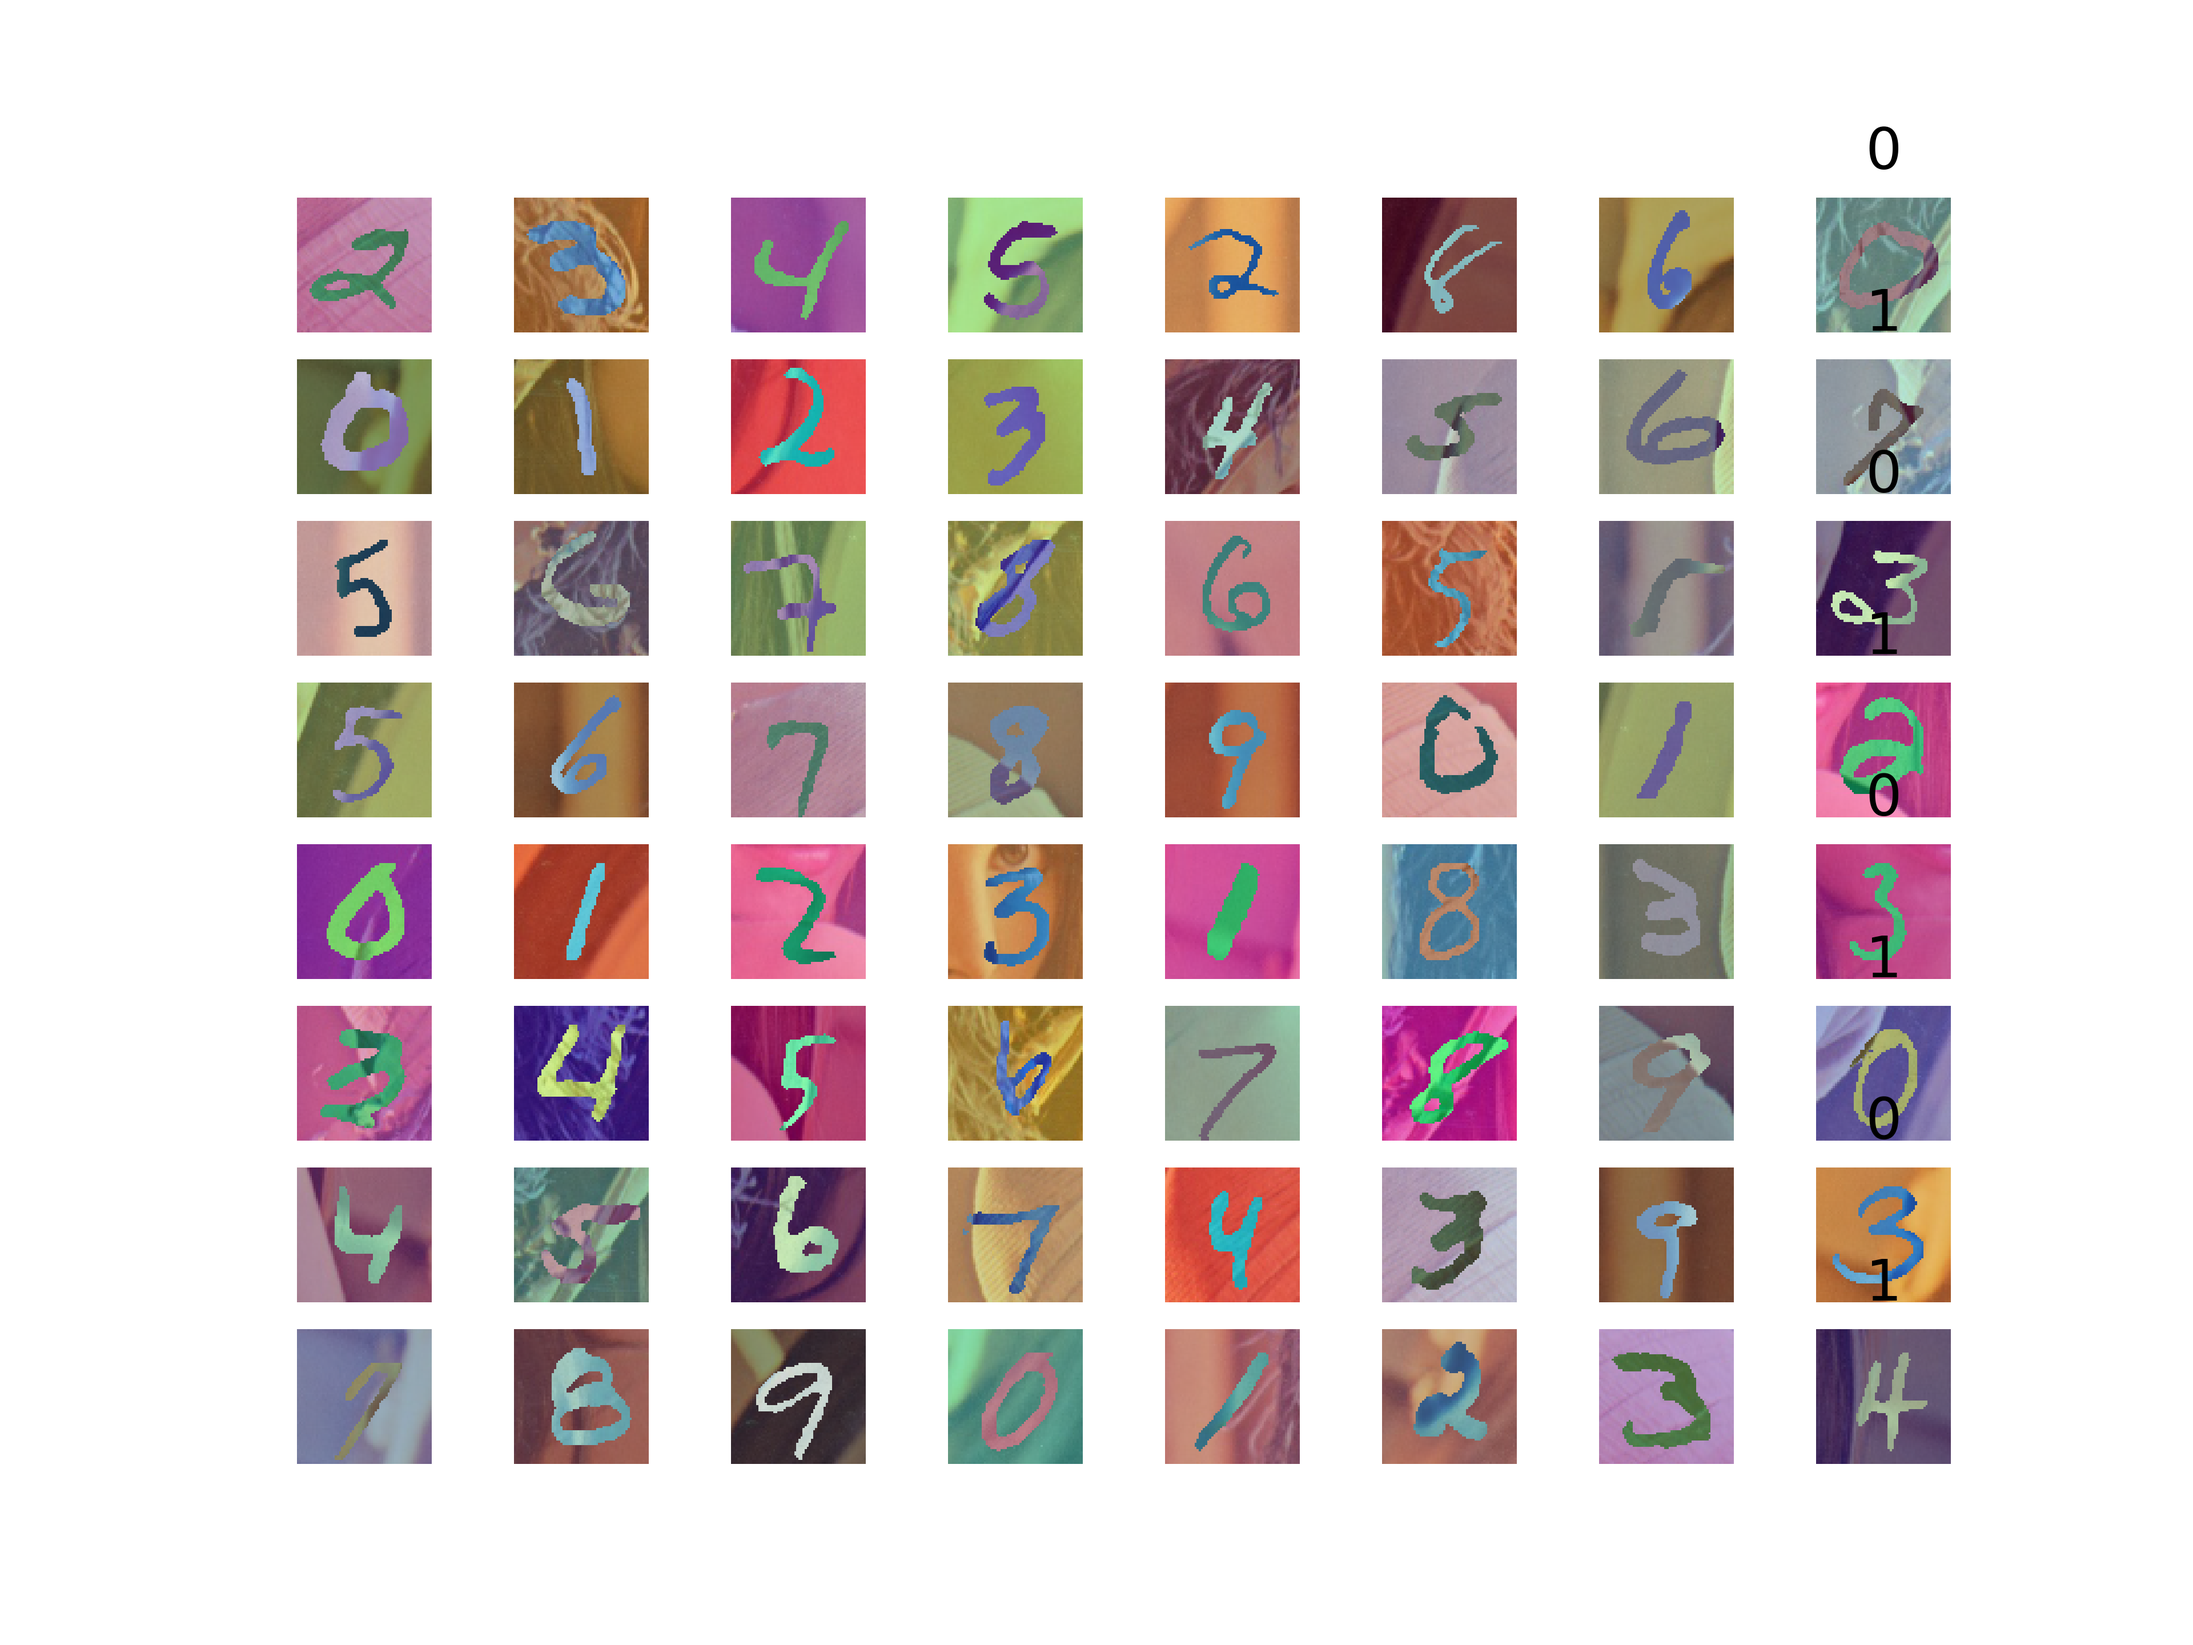
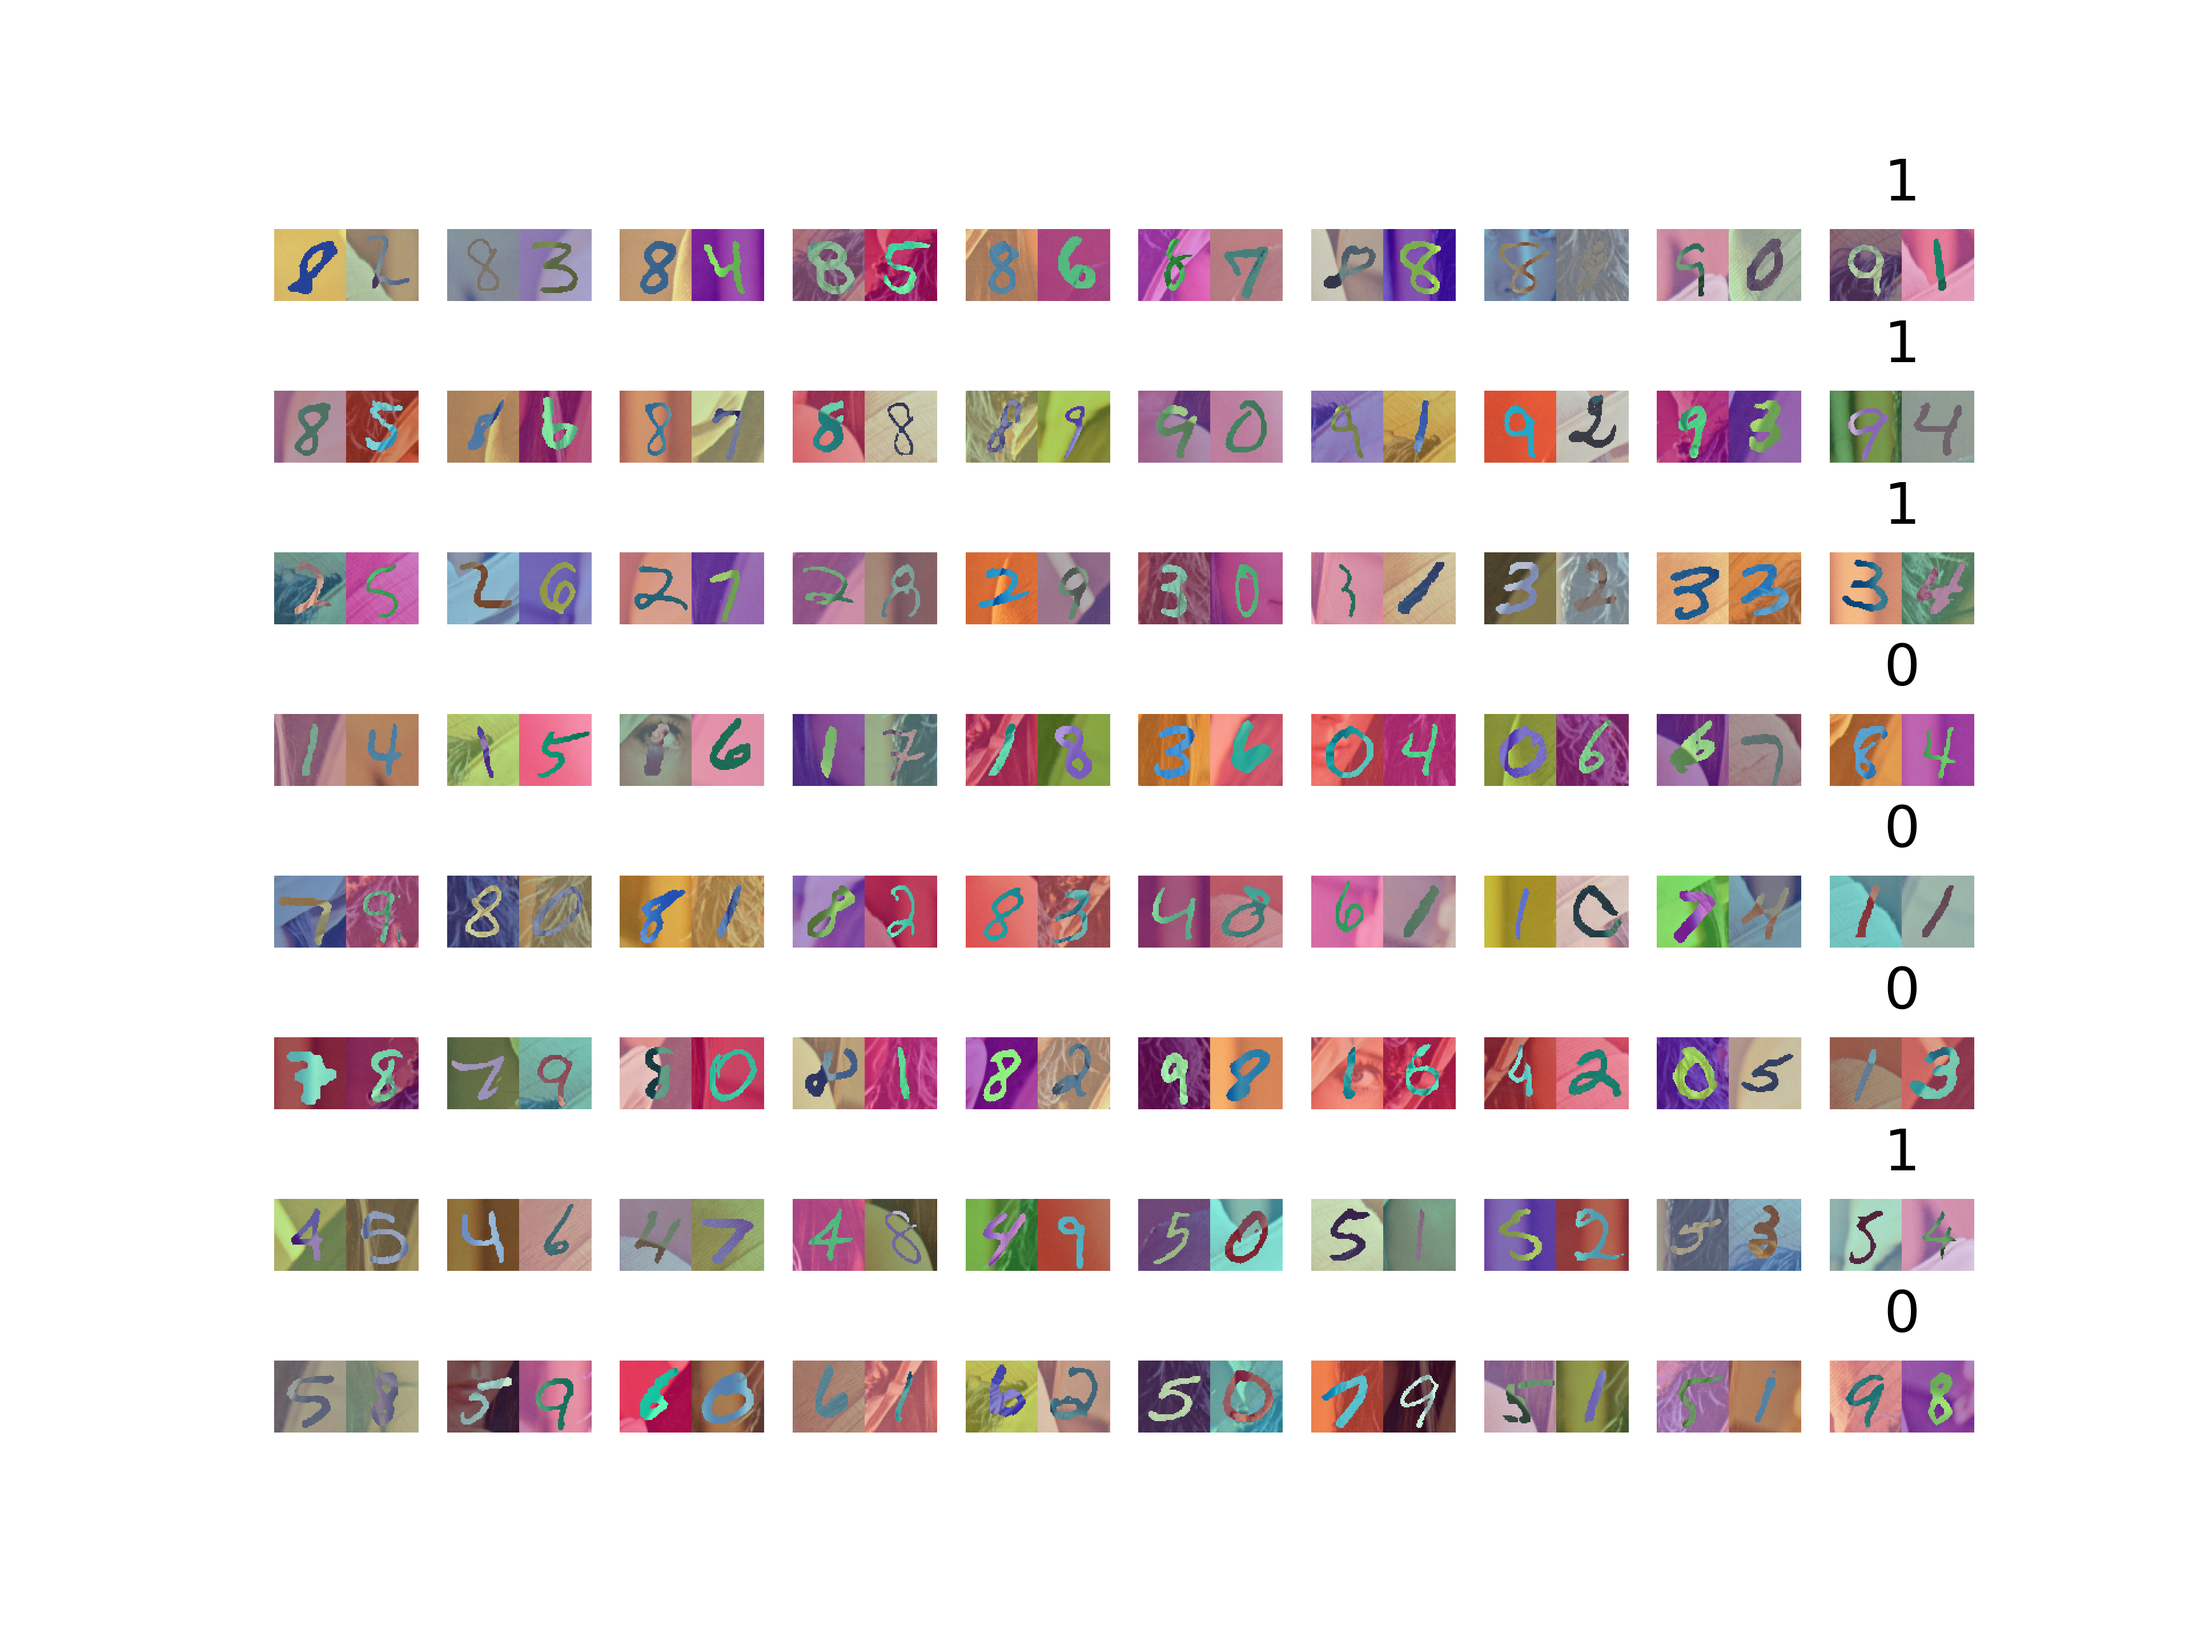
Mission Complete V3.

diff --git a/data_utils_consecutive.py b/data_utils_consecutive.py
@@ -303,7 +303,7 @@ class SortedNumberGenerator(object):
             
             if positive_samples_n <= 0:
                 # Set random predictions for negative samples
-                sentence[-self.predict_terms:] = np.mod(sentence[-self.predict_terms:] + np.random.randint(1, 10, self.predict_terms), 10)
+                sentence[-self.predict_terms:] = np.mod(sentence[-self.predict_terms:] + np.random.randint(1, 10, (self.predict_terms, self.word_size)), 10)
                 sentence_labels[b, :] = 0
 
             # Save sentence
@@ -417,7 +417,7 @@ def plot_sequences(x, y, labels=None, output_path=None):
 if __name__ == "__main__":
 
     # Test SortedNumberGenerator
-    ag = SortedNumberGenerator(batch_size=8, subset='train', terms=1, positive_samples=4, predict_terms=1, image_size=64, color=True, rescale=False)
+    ag = SortedNumberGenerator(batch_size=8, subset='train', terms=5, positive_samples=4, predict_terms=5, image_size=64, color=True, rescale=False)
     for (x, y), labels in ag:
         plot_sequences(x, y, labels, output_path=r'resources/batch_sample_sorted.png')
         break

diff --git a/data_utils.py b/data_utils.py
@@ -391,7 +391,7 @@ def plot_sequences(x, y, labels=None, output_path=None):
 if __name__ == "__main__":
 
     # Test SortedNumberGenerator
-    ag = SortedNumberGenerator(batch_size=8, subset='train', terms=4, positive_samples=4, predict_terms=4, image_size=64, color=True, rescale=False)
+    ag = SortedNumberGenerator(batch_size=8, subset='train', terms=4, positive_samples=4, predict_terms=2, image_size=64, color=True, rescale=False)
     for (x, y), labels in ag:
         plot_sequences(x, y, labels, output_path=r'resources/batch_sample_sorted.png')
         break
